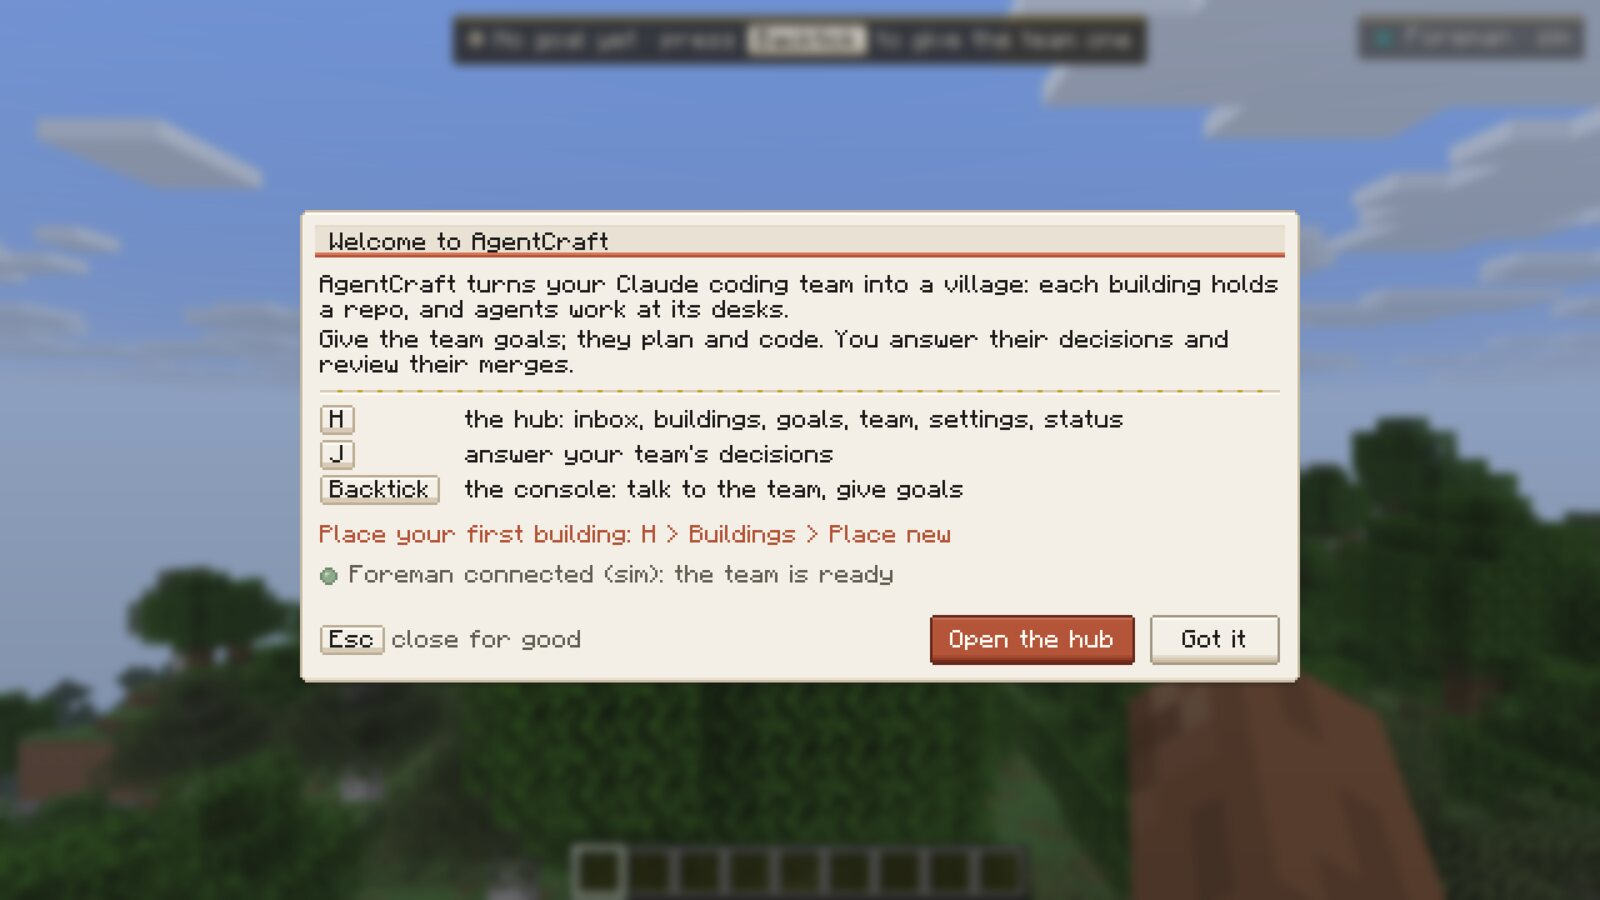
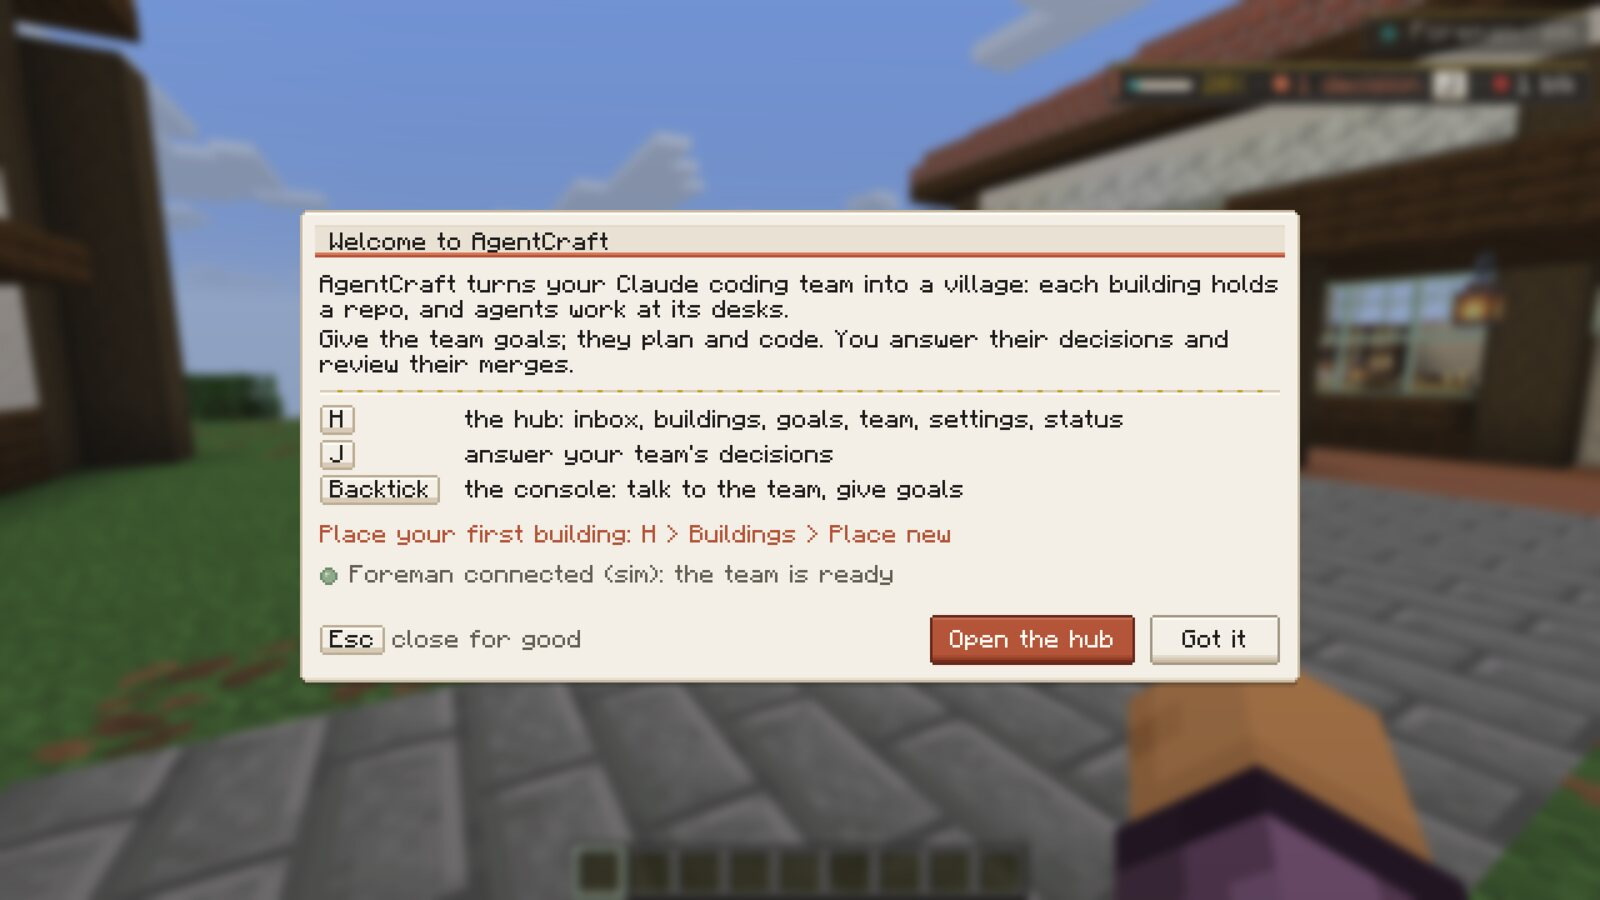
docs: README reshoot for HUD styles (Pill default, Pill+, Panel), hub Status launcher and Settings HUD; console.md HUD section

diff --git a/README.md b/README.md
@@ -10,7 +10,7 @@
 [![Minecraft 26.3](https://img.shields.io/badge/Minecraft-26.3-8fa98b)](https://www.minecraft.net)
 [![Fabric](https://img.shields.io/badge/mod%20loader-Fabric-d97757)](https://fabricmc.net)
 [![Claude Agent SDK](https://img.shields.io/badge/agents-Claude%20Agent%20SDK-2fa3a0)](https://code.claude.com/docs/en/agent-sdk/overview)
-[![Tests](https://img.shields.io/badge/tests-761%20passing-3b2a20)](foreman/test)
+[![Tests](https://img.shields.io/badge/tests-807%20passing-3b2a20)](foreman/test)
 
 <img src="docs/img/fork/hero.jpg" alt="An AgentCraft village: a studio, a campus and two workshops on a hilltop" width="100%">
 
@@ -138,11 +138,11 @@ press **Place new…**.
 <table>
 <tr>
 <td width="50%"><img src="docs/img/fork/welcome.jpg" alt="The welcome card on first join"></td>
-<td width="50%"><img src="docs/img/fork/ghost.jpg" alt="Placing a studio: the ghost on a hillside with the HUD verdict"></td>
+<td width="50%"><img src="docs/img/fork/ghost.jpg" alt="Placing a workshop: the ghost on a terraced meadow with the HUD verdict"></td>
 </tr>
 <tr>
 <td>The welcome card, shown once per world.</td>
-<td>Placing a studio on a hilltop: replaced blocks in orange, the foundation it adds, the entrance bar.</td>
+<td>Placing a workshop on a sloping meadow: replaced blocks in orange, the foundation and the entrance path it adds, the verdict before you press Enter.</td>
 </tr>
 </table>
 
@@ -246,11 +246,11 @@ you, unread goal threads, failing CI and blocked agents.
 </tr>
 <tr>
 <td><img src="docs/img/fork/hub-team.jpg" alt="The Team tab"></td>
-<td><img src="docs/img/fork/hub-settings.jpg" alt="The Settings tab, permissions"></td>
+<td><img src="docs/img/fork/hub-settings-general.jpg" alt="Settings, General: the HUD style picker with a live preview"></td>
 </tr>
 <tr>
 <td><b>Team.</b> Four leads, one per building, and the workers they share.</td>
-<td><b>Settings.</b> Permission mode and rules, applied from the next turn.</td>
+<td><b>Settings.</b> The HUD's style, position and size with a live preview; permissions, context and usage in the other groups.</td>
 </tr>
 </table>
 
@@ -262,9 +262,7 @@ you, unread goal threads, failing CI and blocked agents.
 | **Goals** | New goals (on a repo, continuing a branch, or across several repos) and per goal: the thread with its lead, the plan, standing instructions, tasks and the "since you were away" summary |
 | **Team** | Every lead and worker: role, model, effort, who is on shift, how many work at once, and leads still held by other worlds |
 | **Settings** | The in-game HUD style and position, your name, permission mode, allow and deny rules, context files, subagents, PR watching, per-turn budget and usage reserve; applied live or after a Foreman restart the hub does for you |
-| **Status** | Foreman connection, backend and account, usage windows and spend, and **Keys & help**: every key and in-world interaction |
-
-<img src="docs/img/fork/hud.jpg" alt="The HUD Panel style: goal bar, waiting badge and the alert line" align="right" width="45%">
+| **Status** | Foreman connection, the **Launcher** (the Foreman the game started: Start, Restart, Open log), backend and account, usage windows and spend, and **Keys & help**: every key and in-world interaction |
 
 **Out in the world**, a compact pill in the corner shows the goal's progress and turns clay when
 something needs you: `40% · 2 decisions J · 1 blocked`, plus replies, PRs and usage pauses as they
@@ -273,7 +271,11 @@ sits, in Settings > General; it keeps clear of boss bars, effects, the hotbar an
 away and a toast sums up what moved; <kbd>H</kbd> then opens the Inbox with the catch-up at the top.
 Otherwise <kbd>H</kbd> reopens the tab you used last.
 
-<br clear="right">
+<img src="docs/img/fork/hud.jpg" alt="Out in the village with the default Pill HUD in the top-right corner" width="100%">
+
+<img src="docs/img/fork/hud-styles.jpg" alt="The Pill, Pill+ and Panel HUD styles side by side" width="100%">
+
+<sub>The default Pill on the plaza, then Pill, Pill+ and Panel for the same moment.</sub>
 
 <br>
 
@@ -435,7 +437,14 @@ On other launchers, build the jar with `./gradlew build` in `mod/`, add it like 
 Foreman from the checkout the jar was built from (or set `launcher.foremanDir` in
 `~/.agentcraft/config.json`).
 
+<img src="docs/img/fork/hub-status.jpg" alt="The hub Status tab with the Launcher section" align="right" width="45%">
+
+The hub's **Status** tab shows what the launcher did: whether it started the Foreman or reused one,
+its version and log, and Start or Restart buttons if it stopped.
+
 Then open the hub with <kbd>H</kbd>, register your repos in **Repos** and place their buildings.
+
+<br clear="right">
 
 <br>
 
@@ -452,6 +461,7 @@ Then open the hub with <kbd>H</kbd>, register your repos in **Repos** and place 
 | Right click a monitor (empty hand) | That agent's full log |
 | Right click the merge station, archive or a task card | Diff review, memory library, task details |
 | *(unbound)* | Building wizard; the hub's **Place new…** opens it too |
+| *(unbound)* | Cycle the HUD style (Off, Pill, Pill+, Panel) |
 
 All keys can be rebound in Options, Controls, AgentCraft, and the hub's Status tab lists them all
 under **Keys & help**. In singleplayer, AgentCraft screens pause the game like any vanilla menu.
@@ -562,7 +572,7 @@ backend is free.
 ## Development
 
 ```sh
-cd foreman && npm test                     # 761 tests
+cd foreman && npm test                     # 807 tests
 cd mod && ./gradlew build                  # the mod (gradlew.bat on Windows)
 npm test --prefix tools                    # launcher, blueprint and QA tool tests
 node tools/qa.mjs --home .agentcraft-home  # capture the 10 shot QA gallery

diff --git a/docs/console.md b/docs/console.md
@@ -115,13 +115,19 @@ covers (tied to key 2). Buttons: Allow once (1), Always allow (2, sends the exac
 
 ## HUD
 
-- Goal bar (top centre, boss-bar style): status dot, goal text, %, progress bar, the open task
+- Overlay style (hub Settings > General > HUD, mod/FEATURES.md "Overlay styles", mod/DEV.md "HUD
+  overlay styles"): **Pill** by default, one compact line in the top right under the effect icons
+  ("39% · 2 decisions [J] · 1 blk"); **Pill+** adds the goal title, a progress bar, who is working, usage
+  and the next decision's first words; **Panel** is the goal bar and badges below; **Off**. Positions
+  top right / top left / bottom left / bottom right / right middle, sizes S/M/L, a 5 s peek on changes;
+  an unbound key cycles the style, F1 hides it all.
+- Panel style: the goal bar (boss-bar style): status dot, goal text, %, progress bar, the open task
   columns that have tasks and "n/m done" ("finished 2m ago" once the goal is done). With no goal
   yet: "No goal yet · press [Backtick] to give the team one" (punctuation keys are spelled out on
   keycaps; their glyphs are a pixel or two). It keeps clear of the connection pill using the pill's
   real size each frame: narrower next to it, or below it when there is no room (the two-line
   "Reconnecting to the Foreman" pill on a narrow GUI).
-- Decisions badge under it: "2 waiting · press J" with a pulsing clay dot.
+- Panel style: the decisions badge under it: "2 waiting · press J" with a pulsing clay dot.
 - Paper toasts for `notify` (top right, under the connection pill, below the goal bar on narrow
   screens): the agent's portrait, "Marlow needs you", two lines, the J hint; they leave early once
   their decision is answered. Hidden while the decision screen is open.
